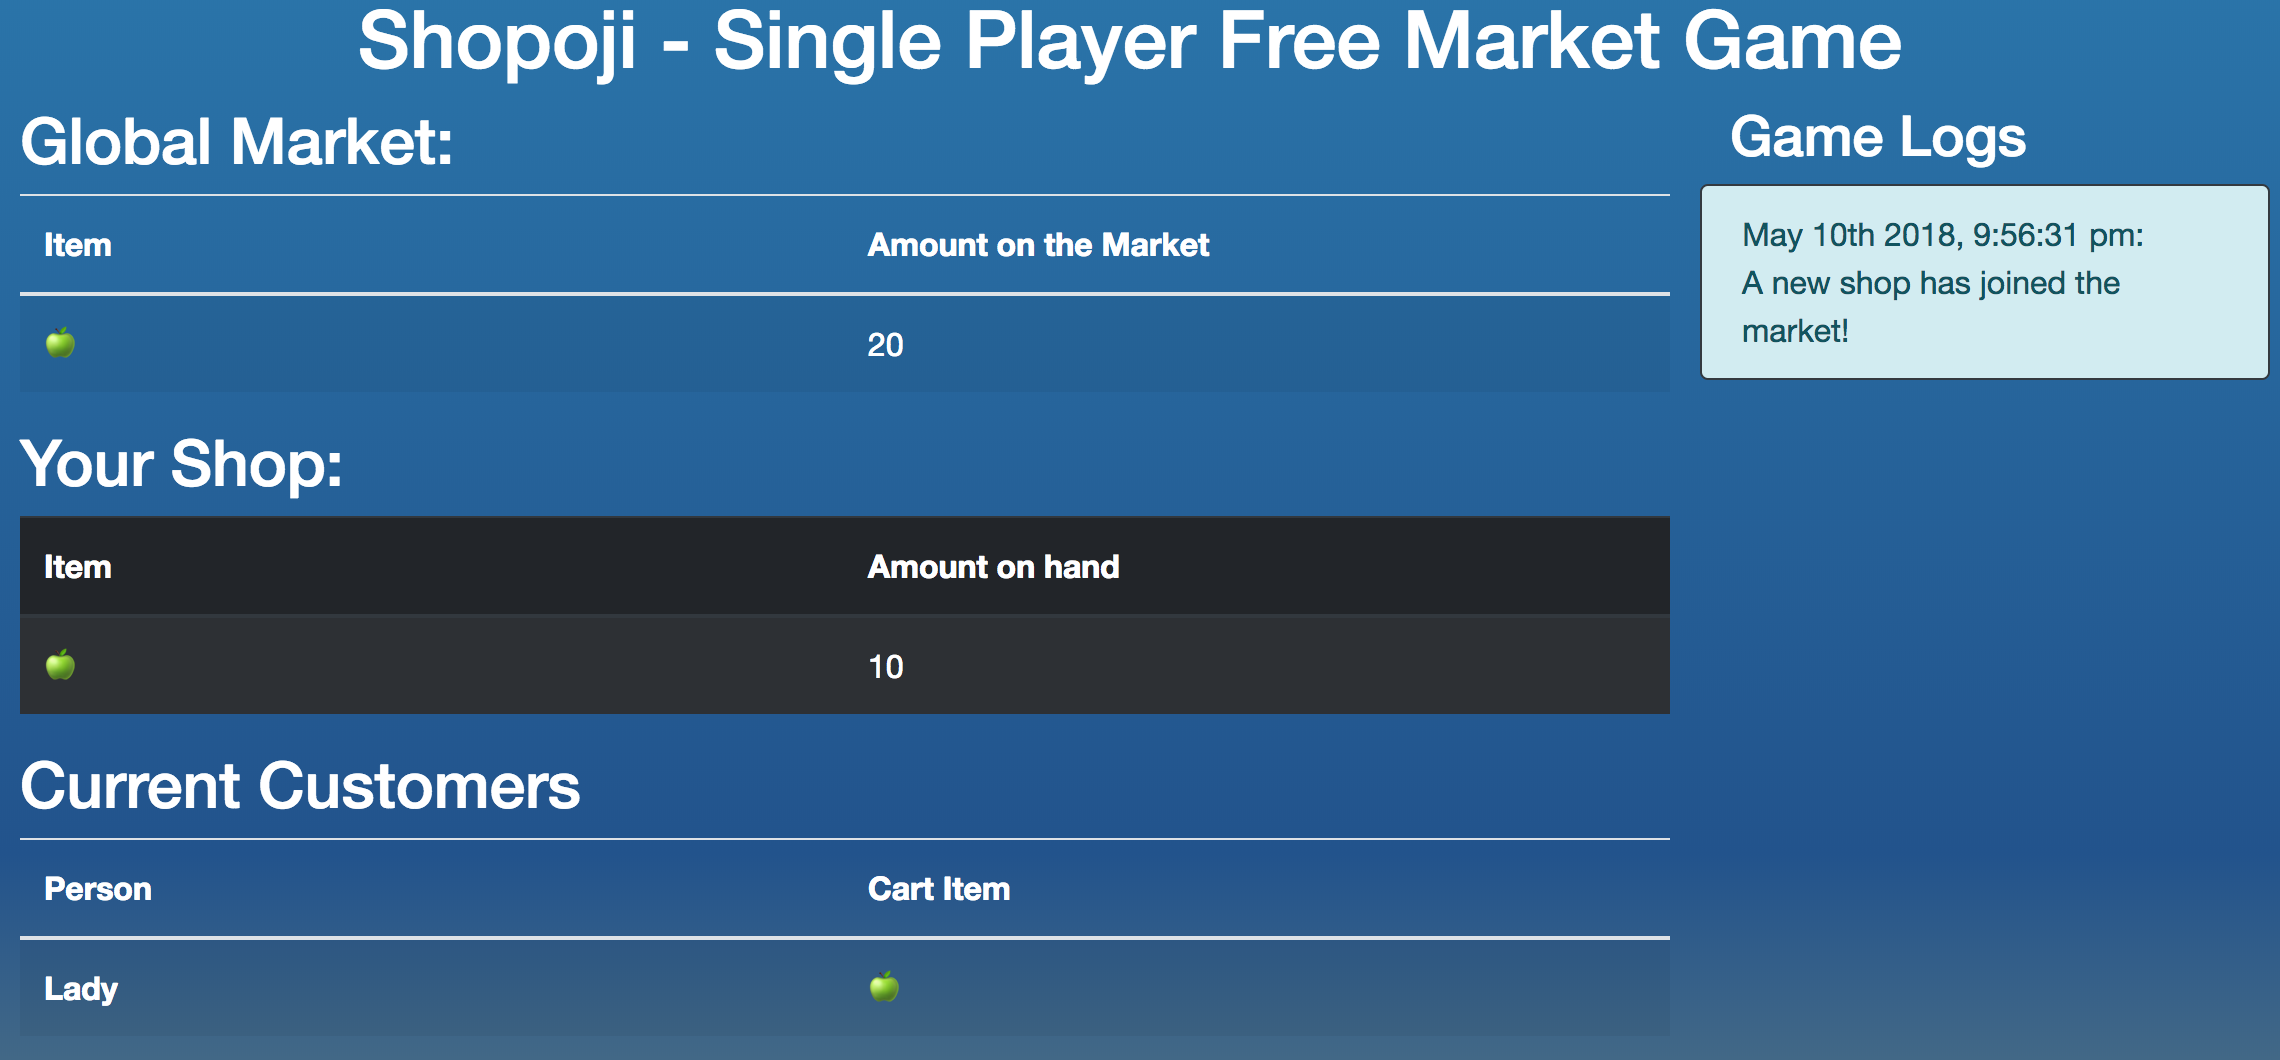
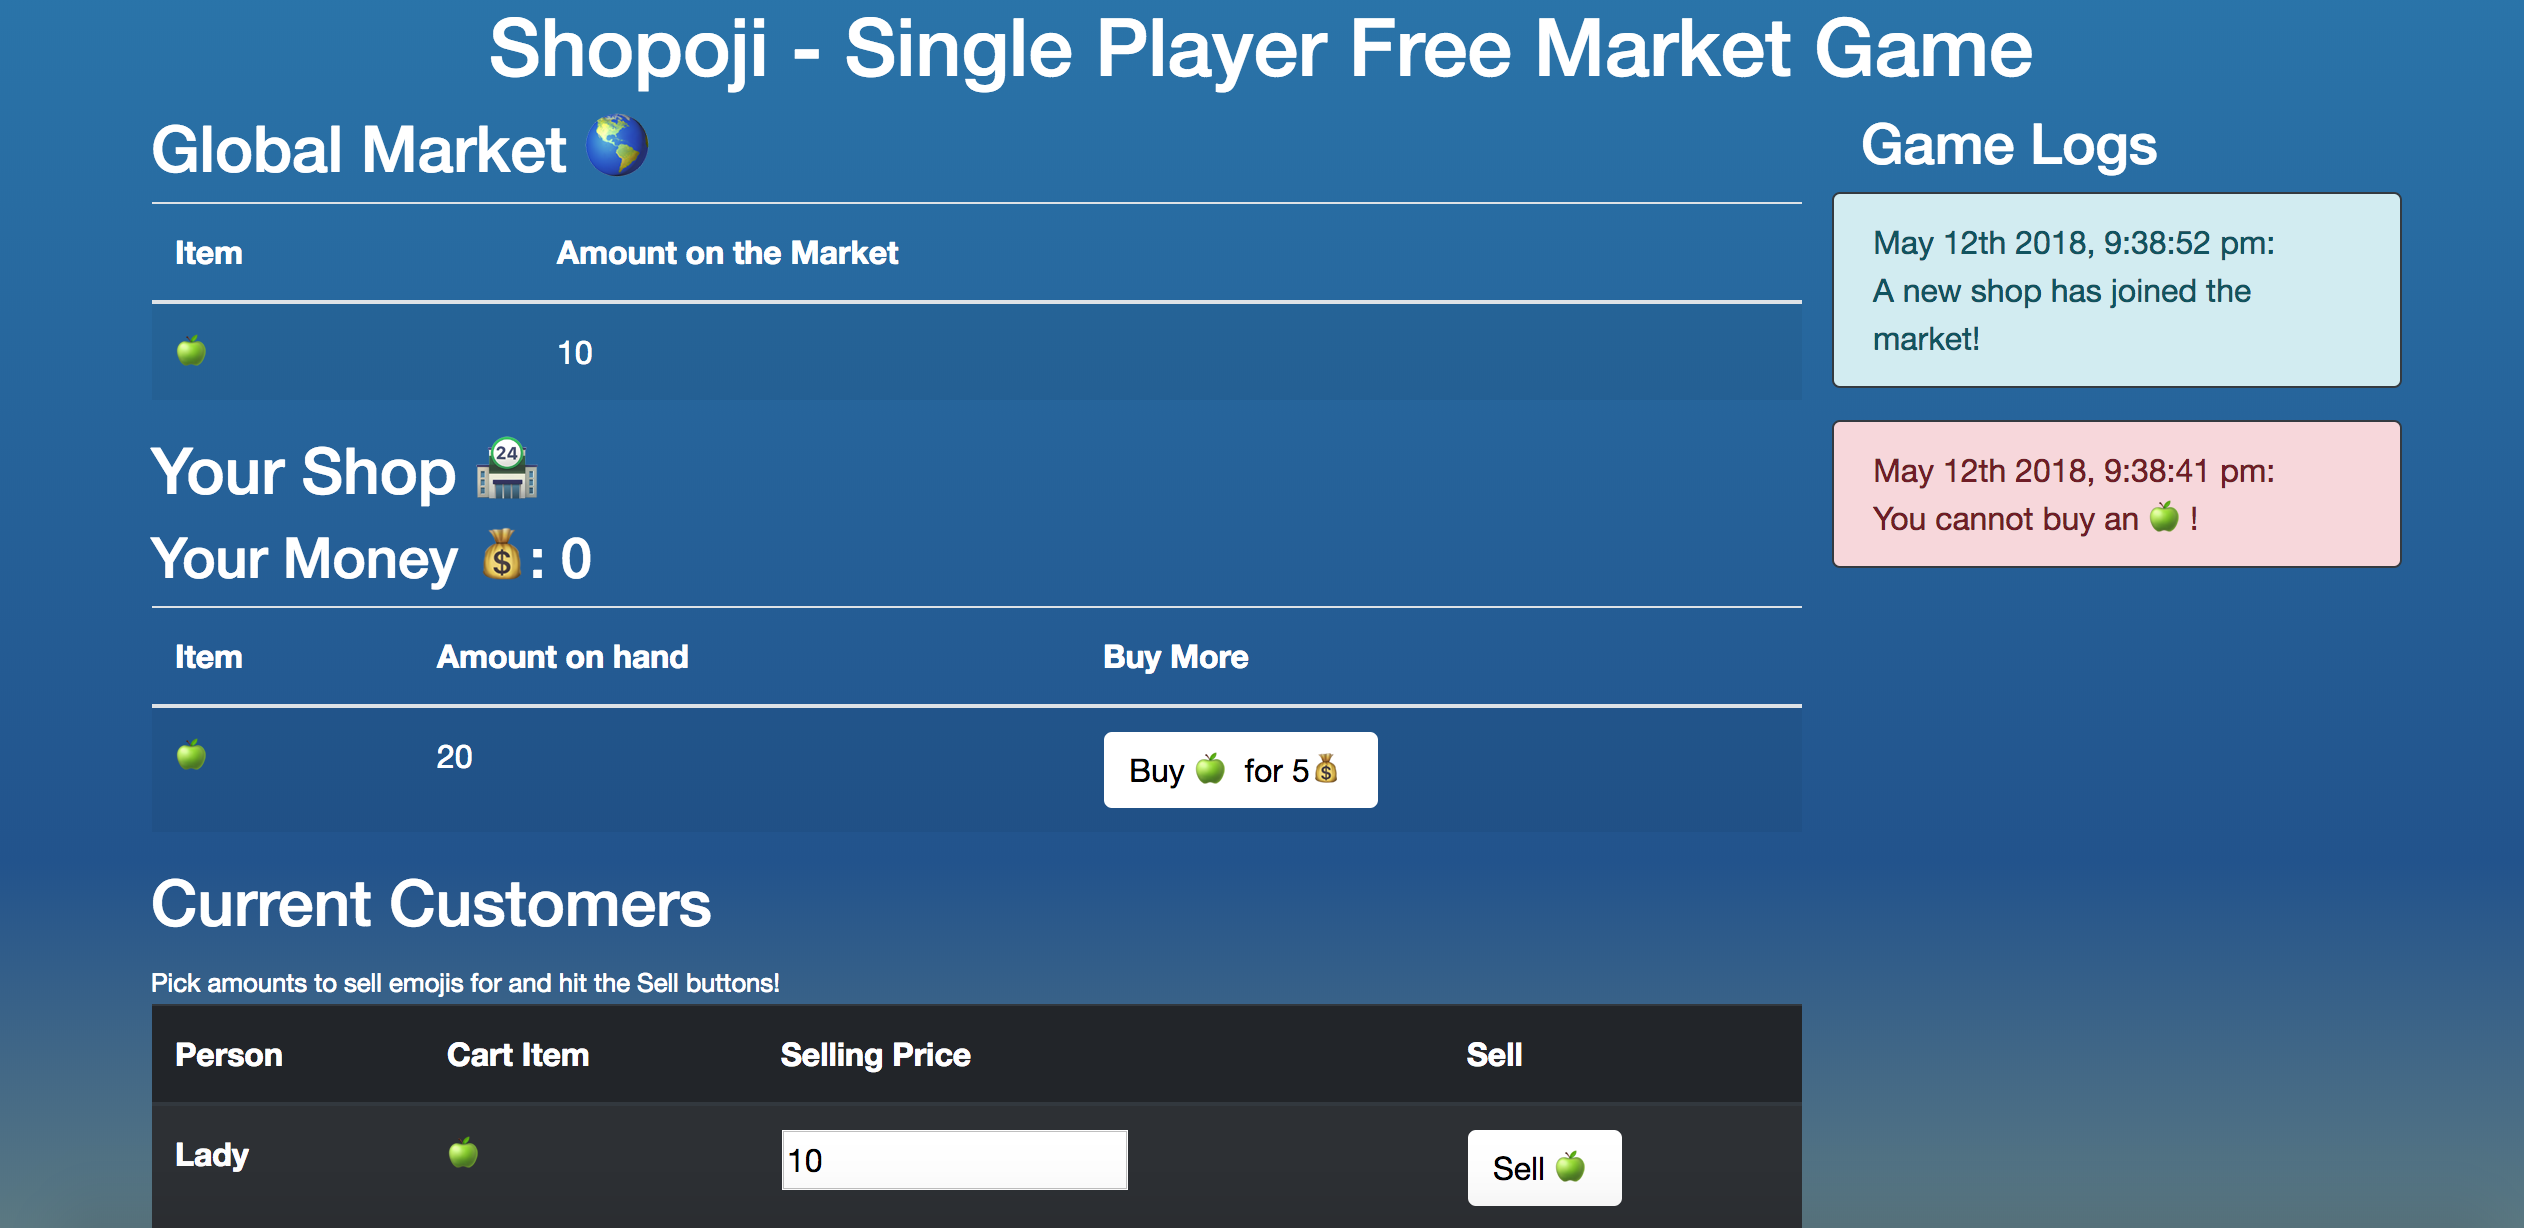
Update README

diff --git a/README.md b/README.md
@@ -8,19 +8,19 @@
 
 Shopoji is a web game that runs in any browser. You sell your emoji stock to NPCs in the quest for more money.
 
-As a unique twist, however, there is a free market. Prices are in flux due to supply and demand, and you need to account for that when pricing your inventory.
+As a unique twist, however, there is a free market. <!-- Prices are in flux due to supply and demand, and you need to account for that when pricing your inventory. -->
 
-The market, in this case, is the other current players. The game itself is single player, but the market is controlled by the entire playerbase. You'll never interact with other players, but your pricing will affect their games as theirs will yours. Thus, you'll need strategy to make your emoji business the most thriving one in the market!
+The market, in this case, is the other current players. The game itself is single player, but the market is controlled by the entire playerbase. <!-- You'll never interact with other players, but your pricing will affect their games as theirs will yours. Thus, you'll need strategy to make your emoji business the most thriving one in the market! -->
 
 ## How to Play
 
 Once you enter the game, your initial inventory is all you'll have to work with. As more people enter the game after you, the difficulty ramps up as you'll need to make your emojis more enticing to your customers. 
 
-The Messages on the right of the screen show the latest market events.     
-The Global Market on the top of the screen gives you an idea for what emojis are scarce and which are in abundence (this may not line up with your shop's inventory -- that just means other people are more likely to get those sales!).     
+The Messages on the right of the screen show the latest market events. It's limited to the most recent 5.     
+The Global Market on the top of the screen gives you an idea for what emojis are scarce and which are in abundence (this may not line up with your shop's inventory -- that just means other people are playing!).     
 The rest of the screen is around your shop itself -- your inventory and your customers. Sell emojis to make money for your shop! 
 
-<!-- how to sell stuff -->
+Each customer has a spot for you to name your price and a button to sell it to that person for that price. You can then use that money in your shop to increase your emoji inventory.
 
 Objective: Have lots of money in your shop. There's no leaderboard -- just the endless quest for more money.
 
@@ -65,12 +65,13 @@ The game I wanted was [Recettear](https://en.wikipedia.org/wiki/Recettear%3A_An_
 * May 5, 2018: [Pusher Shopkeep Game - Initial Idea](https://dev.to/itsasine/pusher-shopkeep-game---initial-idea-36po)
 * May 6, 2018: [Pusher Project - Why I'll Never Be DevOps](https://dev.to/itsasine/pusher-project---why-ill-never-be-devops-520d)
 * May 9, 2018: [Shopoji - Initial Front End With Working Effects!](https://dev.to/itsasine/shopoji---initial-front-end-with-working-effects-i56)
+* May 12, 2018: []()
 
 ## Roadmap
 
 _Possible future features_
 
-* Add the ability to actually sell things (getting there very soon!)
-* Add the ability to buy more inventory
+* Have your game more affected by other players
 * Add more emojis to the marketplace with categories as well (food, tools, weapons, toys, etc)
 * Add NPCs preferences for buying things. A knight might pay more for a :dagger: but won't be apt to pay all that much extra for a :balloon:
+* Add market preferences for buying things. A scarce item will sell for more than an abundant one.
